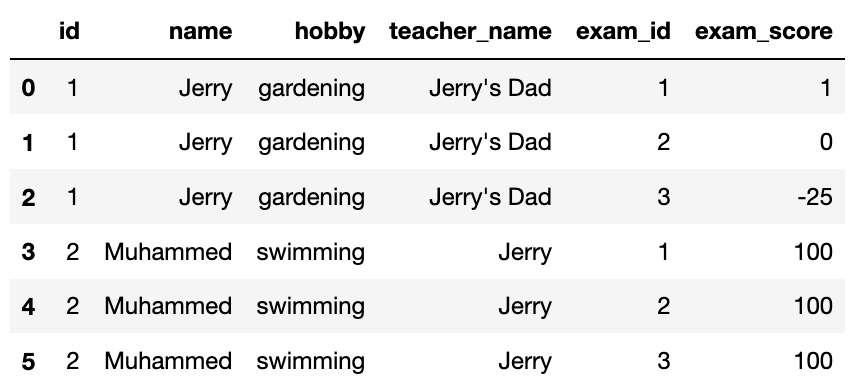
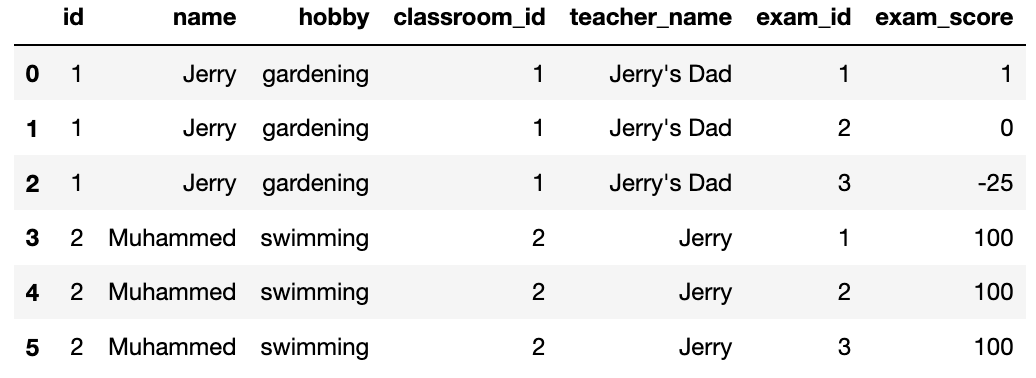
Finish SQL

diff --git a/_posts/python/2021-03-26-SQL_vs_NoSQL.md b/_posts/python/2021-03-26-SQL_vs_NoSQL.md
@@ -52,7 +52,7 @@ NoSQL databases address these needs by **sacrificing structure for flexibility**
 But of course, this design also has its drawbacks, or we'd have all switched over. The lack of a database schema means it's difficult to join data between different collections of data, and having distributed servers means queries can return stale data before updates are synchronized.<sup>[[2]](#2-nosql-databases)</sup> The right choice between a SQL and NoSQL database, then, depends on which of the drawbacks you're willing to deal with.
 
 ## Playtime
-Enough theory; let's actually create each type of database in Python. We'll use the `sqlalchemy` library to create a simple [SQLite](https://en.wikipedia.org/wiki/SQLite) database, and we'll use `pymongo` to create a [MongoDB](https://en.wikipedia.org/wiki/MongoDB) NoSQL database.
+Enough theory; let's actually create each type of database in Python. We'll use the `sqlalchemy` library to create a simple [SQLite](https://en.wikipedia.org/wiki/SQLite) database, and we'll use `pymongo` to create a [MongoDB](https://en.wikipedia.org/wiki/MongoDB) NoSQL database. Make sure to install `sqlalchemy` and `pymongo` to run the code below, as well as [start a MongoDB server](https://docs.mongodb.com/manual/tutorial/manage-mongodb-processes/).
 
 ### SQL
 In professional contexts, we'll probably want to create a database via a dedicated RDBMS with actual SQL code. But for our simple proof of concept here, we'll use [SQLAlchemy](https://www.sqlalchemy.org/).
@@ -71,7 +71,7 @@ from sqlalchemy.ext.declarative import declarative_base
 Base = declarative_base()
 ```
 
-We now create our `classroom`, `student`, and `grade` tables as the Python classes `Classroom`, `Student`, and `Grade`. Note that they all inherit from the `Base` SQLALchemy class. Our classes are straightforward: they only define their corresponding table name and its columns.
+We now create our classroom, student, and grade tables as the Python classes `Classroom`, `Student`, and `Grade`. Note that they all inherit from the `Base` SQLALchemy class. Our classes are straightforward: they only define their corresponding table name and its columns.
 
 {% include header-python.html %}
 ```python
@@ -95,7 +95,7 @@ class Grade(Base):
     exam_score = Column(Integer)
 ```
 
-Now we create our database and tables. `create_engine` launches a SQLite database.<sup>[[3]](#3-sql)</sup>
+Now we create our database and tables. `create_engine` launches a SQLite database,<sup>[[3]](#3-sql)</sup> which we then turn on. Line 4 starts our session and line 7 creates database tables from our Python classes.
 
 {% include header-python.html %}
 ```python
@@ -108,7 +108,7 @@ session = Session(bind=engine)
 Base.metadata.create_all(engine)
 ```
 
-Now we make our rows as instances of the Python classes.
+We now generate our data. Instances of `Classroom`, `Student`, and `Grade` serve as rows in each table.
 
 {% include header-python.html %}
 ```python
@@ -127,7 +127,7 @@ exam_m2 = Grade(exam_id=2, student_id=2, exam_score=100)
 exam_m3 = Grade(exam_id=3, student_id=2, exam_score=100)
 ```
 
-Now we actually write our data to the DB.
+Now we finally write our data to the database. Similarly to Git, we use `session.add` to add each row to the staging area and `session.commit` to actually write the data.
 
 {% include header-python.html %}
 ```python
@@ -141,7 +141,7 @@ for obj in objects:
 session.commit()
 ```
 
-We can view it like this.
+Nice work! Let's recreate the first table in this post.
 
 {% include header-python.html %}
 ```python
@@ -151,6 +151,7 @@ query = """
     SELECT s.id,
            s.name,
            s.hobby,
+           c.id AS classroom_id,
            c.teacher_name,
            g.exam_id,
            g.exam_score
@@ -162,24 +163,13 @@ INNER JOIN classroom as c
 
 pd.read_sql_query(query, session.bind)
 ```
-<center>
-<img src="{{  site.baseurl  }}/images/projects/sql_v_nosql/pandas_example.png" height="70%" width="70%">
-</center>
-<!-- ```python
-student_list = session.query(Student)
-print("id\tName\tAge\tHobby")
-print("-"*30)
-for s in student_list:
-    print(f"{s._id}\t{s.name}\t{s.age}\t{s.hobby}")
 
-# id    Name	Age    Hobby
-# ----------------------------
-# 1     Matt    abc    eating
-# 2     John	15     running
-``` -->
+<center>
+<img src="{{  site.baseurl  }}/images/projects/sql_v_nosql/pandas_example.png" height="80%" width="80%" style="margin-top:15px">
+</center>
 
 ### NoSQL
-Now let's work with MongoDB.
+Now let's switch to MongoDB. Make sure to install MongoDB and [launch a local server](https://docs.mongodb.com/manual/tutorial/manage-mongodb-processes/).
 
 {% include header-python.html %}
 ```python
